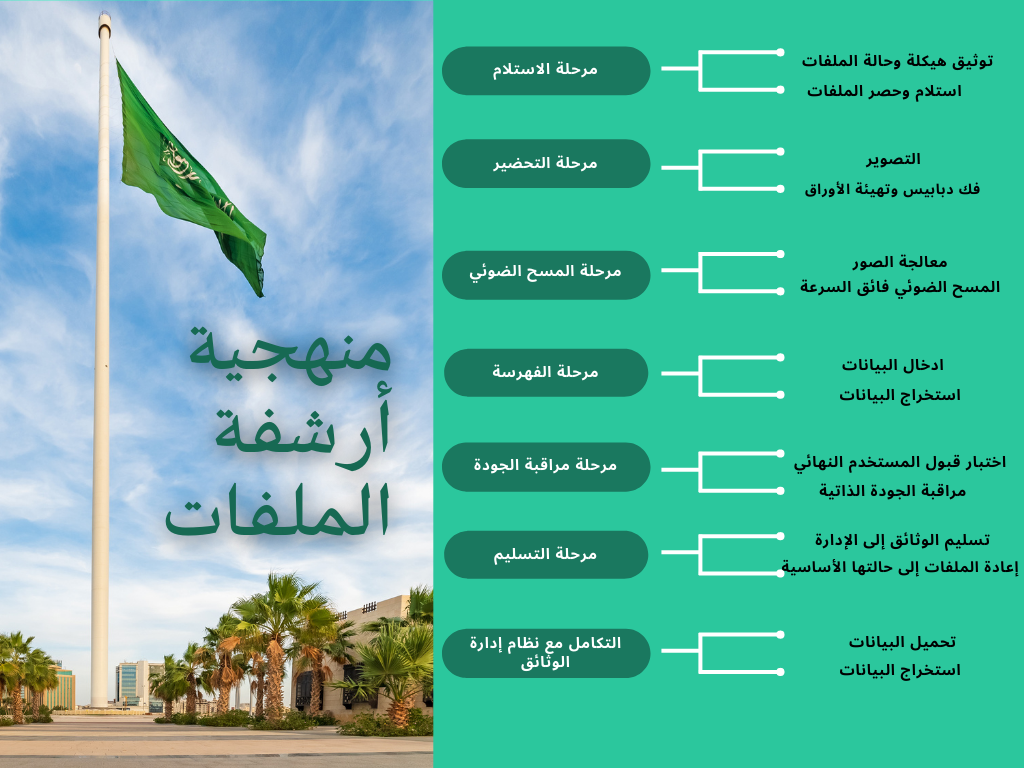
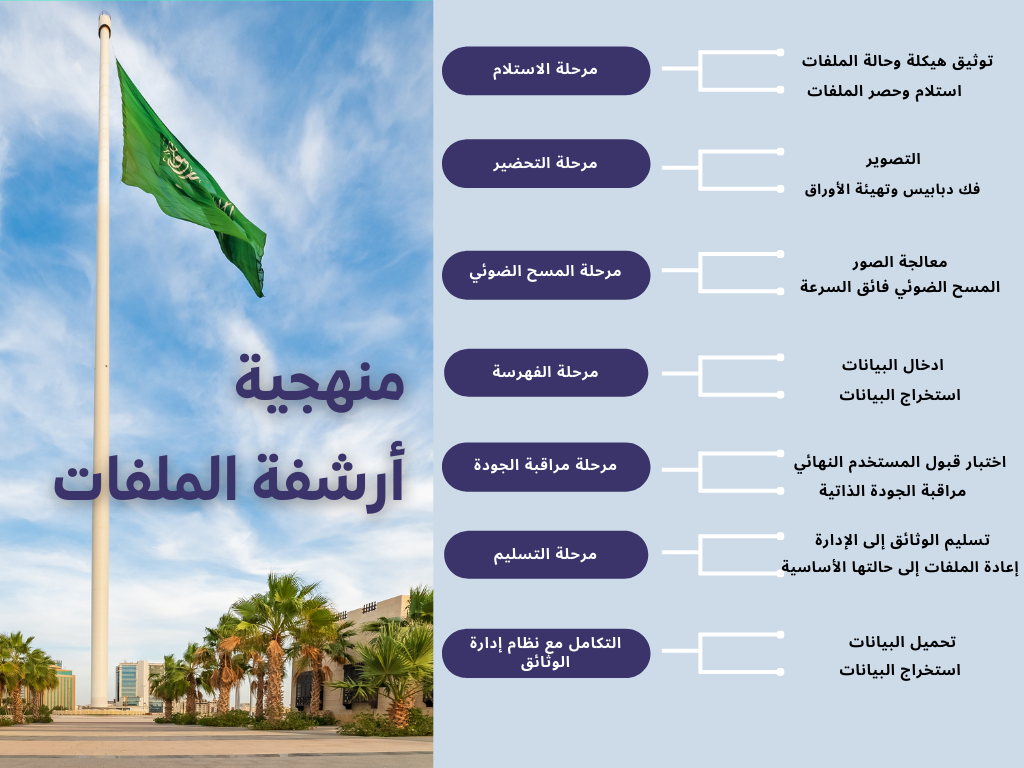
25-6-2022

diff --git a/css/style.default.css b/css/style.default.css
@@ -104,13 +104,13 @@ img {
 /* ابراز العنوان*/
 h1 {
   color: white;
-  text-shadow: 1px 1px 2px black, 0 0 25px #116530, 0 0 5px darkblue;
+  text-shadow: 1px 1px 2px black, 0 0 25px #3A346A, 0 0 5px darkblue;
 }
 
 /* ابراز العنوان*/
 h7 {
   color: white;
-  text-shadow: 1px 1px 2px black, 0 0 25px #116530, 0 0 5px darkblue;
+  text-shadow: 1px 1px 2px black, 0 0 25px #3A346A, 0 0 5px darkblue;
 }
 
 /*.topright {
@@ -121,7 +121,7 @@ h7 {
 }*/
 /* مربع ( حدث بتاريخ )*/
 table2, p2 {
-  background-color: #205b2d8f;
+  background-color: #3a346a77;
   border-collapse: collapse;
   direction: rtl;
 }
@@ -365,7 +365,7 @@ section2 {
   margin: 1.25rem auto;
   margin-top: 0.5rem;
   margin-bottom: 0rem;
-  background: #116530;
+  background: #3A346A;
 }
 
 .lined-compact::after {
@@ -1461,13 +1461,13 @@ button.bg-secondary:focus {
 }
 
 .bg-success {
-  background-color: #28a745 !important;
-  border:2px solid #1b7a31;
+  background-color: #3a346ad4  !important;
+  border:2px solid #3a346a;
 }
 
 .yelloBG {
   background-color: #bfbfa4;
-  border:2px solid #1b7a31;
+  border:2px solid #3a346a;
 
 }
 
@@ -1589,7 +1589,7 @@ a.text-secondary:hover, a.text-secondary:focus {
 }
 
 .text-success {
-  color: #116530 !important;
+  color: #3a346a !important;
 }
 
 a.text-success:hover, a.text-success:focus {

diff --git a/index.html b/index.html
@@ -110,10 +110,10 @@
     ],
     styles: {
       title: {
-        backgroundColor: "#205b2d8f"
+        backgroundColor: "#3a346a96"
       },
       button: {
-        backgroundColor: "#205b2d"
+        backgroundColor: "#3A346A"
       }
     }
   });
